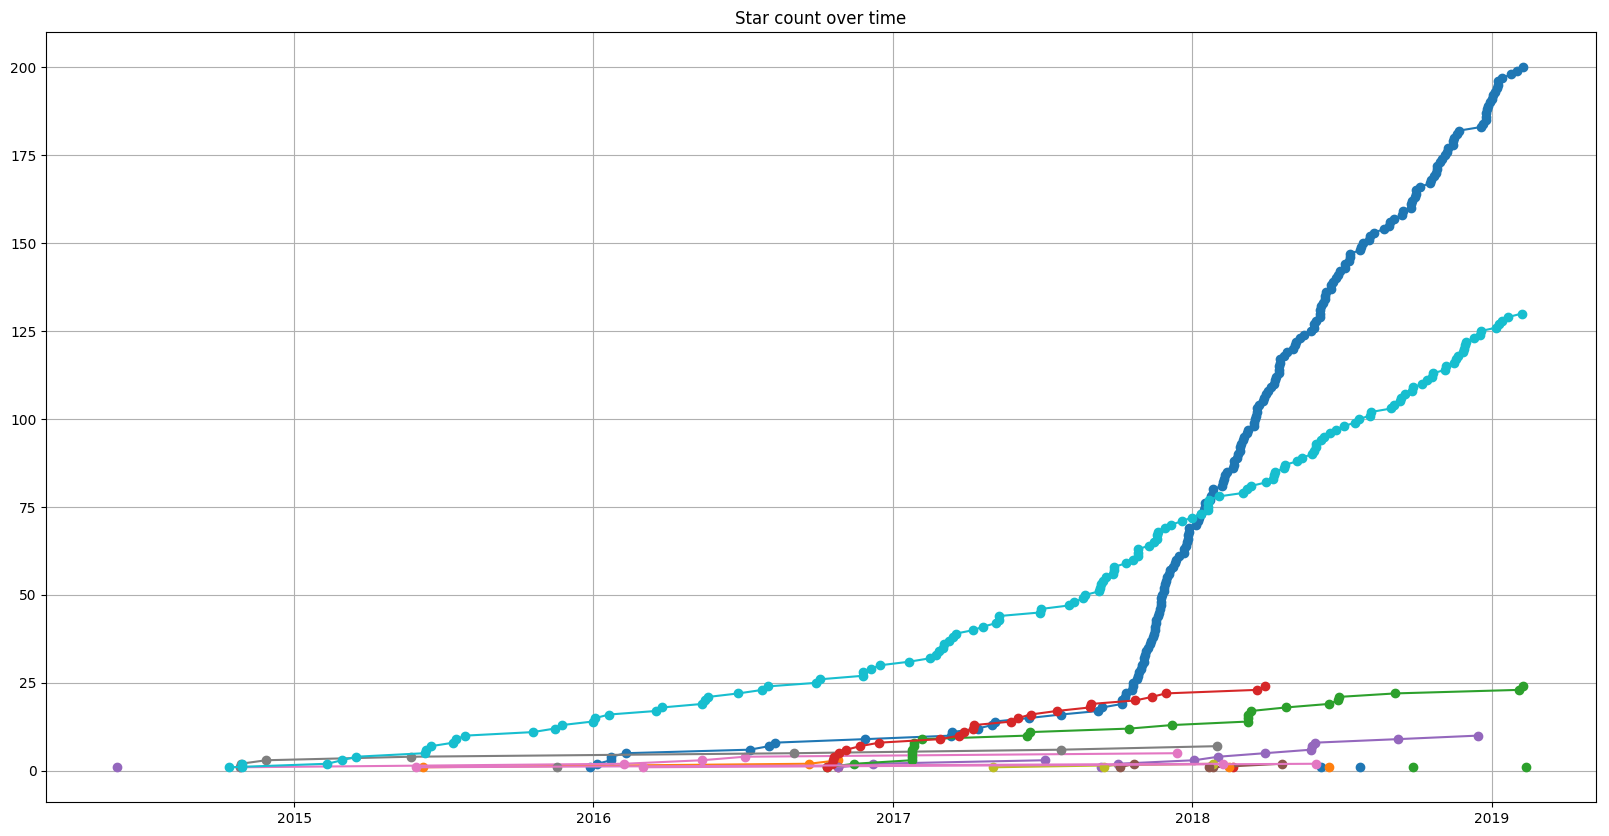
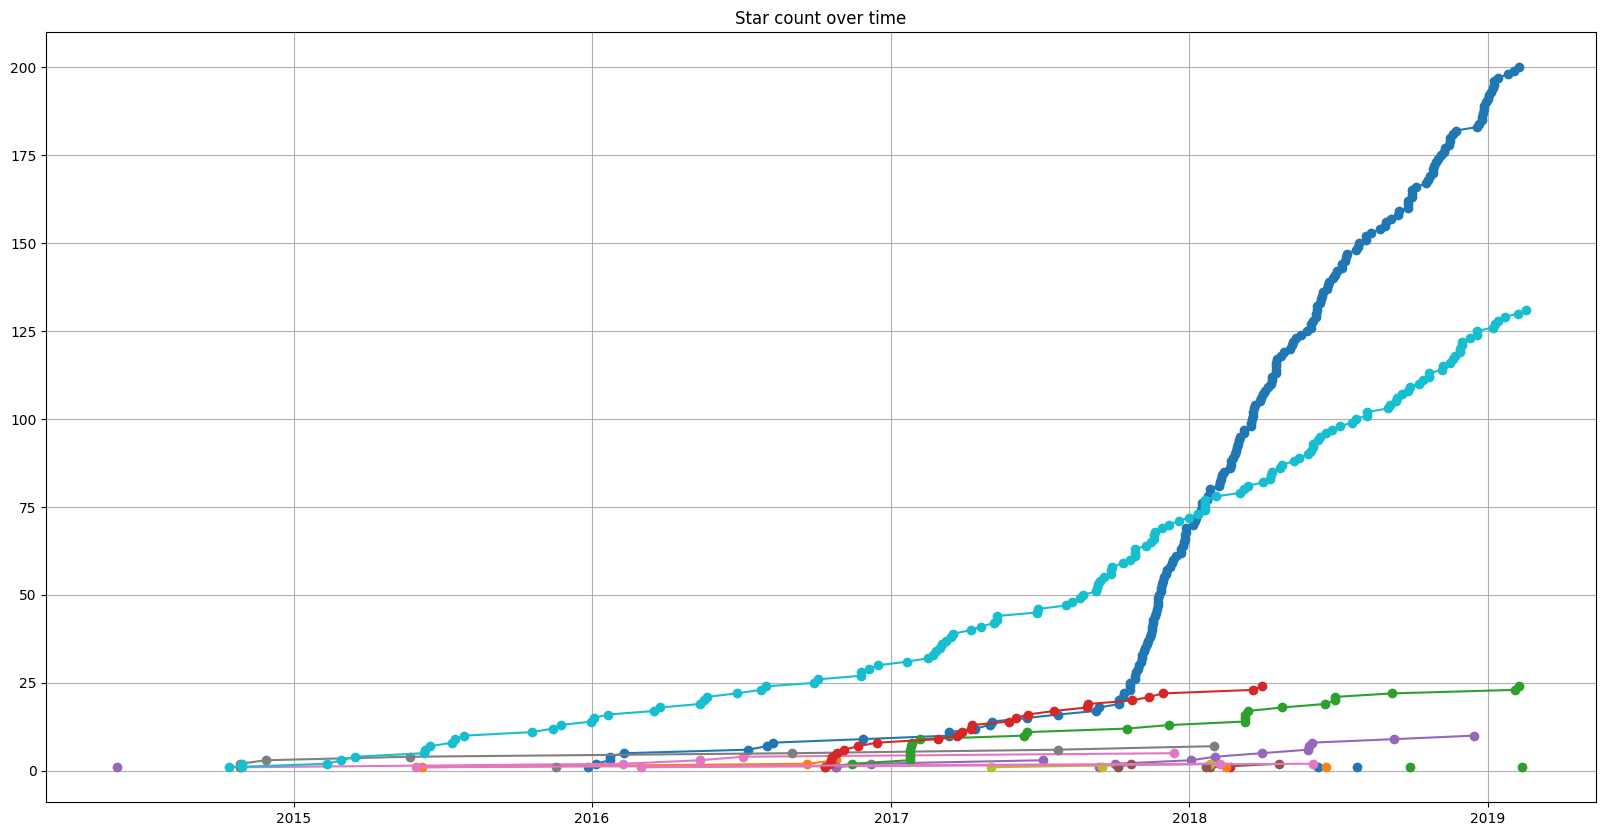
update

diff --git a/README.md b/README.md
@@ -3,7 +3,7 @@
 
 ![star plot](https://raw.github.com/FabriceSalvaire/github-map/master/star-plots/all.png)
 
-Overall stars: 430 :star:
+Overall stars: 431 :star:
 
 ## Python Packages
 
@@ -181,11 +181,11 @@ Overall stars: 430 :star:
 
 ## Python for Electronic
 
-* [PySpice](https://github.com/FabriceSalvaire/PySpice) 130 :star:</br>
+* [PySpice](https://github.com/FabriceSalvaire/PySpice) 131 :star:</br>
 
    Simulate electronic circuit using Python and the Ngspice / Xyce simulators
 
-   Updated on 2019-02-06
+   Updated on 2019-02-16
 
 * [PyCpuSimulator](https://github.com/FabriceSalvaire/PyCpuSimulator) 2 :star:</br>
 
@@ -239,7 +239,7 @@ Overall stars: 430 :star:
 
    A Python library to make patterns for fashion design
 
-   Updated on 2019-02-10
+   Updated on 2019-02-14
 
 * [Patro-data](https://github.com/FabriceSalvaire/Patro-data)
 
@@ -265,7 +265,7 @@ Overall stars: 430 :star:
 
    A repository for free hydrogen songs and patterns 
 
-   Updated on 2018-10-24
+   Updated on 2019-02-15
 
 ## Python for Finance
 
@@ -295,7 +295,7 @@ Overall stars: 430 :star:
 
    An application to read books stored as an image by page (Python3 Qt5 QML)
 
-   Updated on 2019-02-11
+   Updated on 2019-02-17
 
 * [biblio-data](https://github.com/FabriceSalvaire/biblio-data)
 
